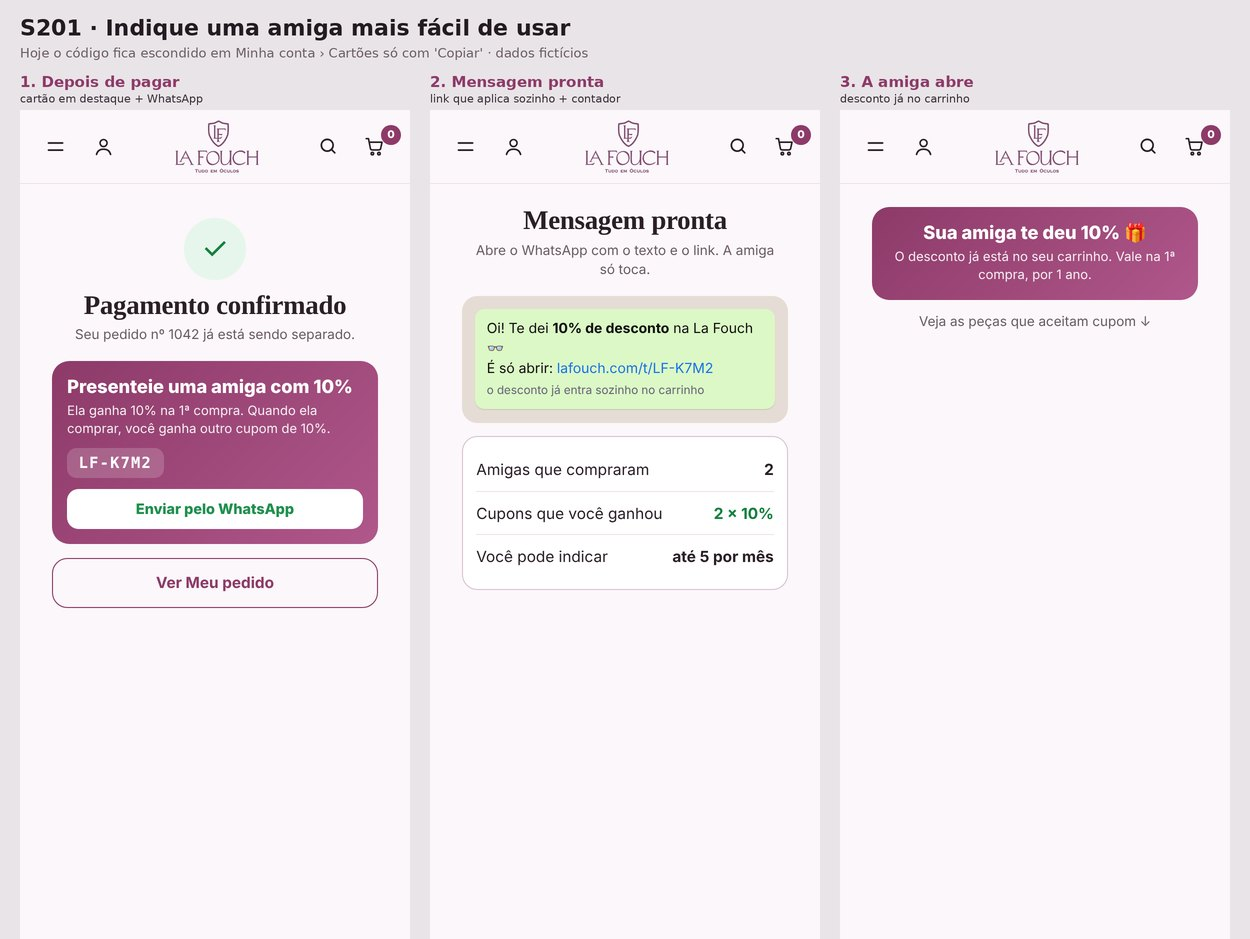
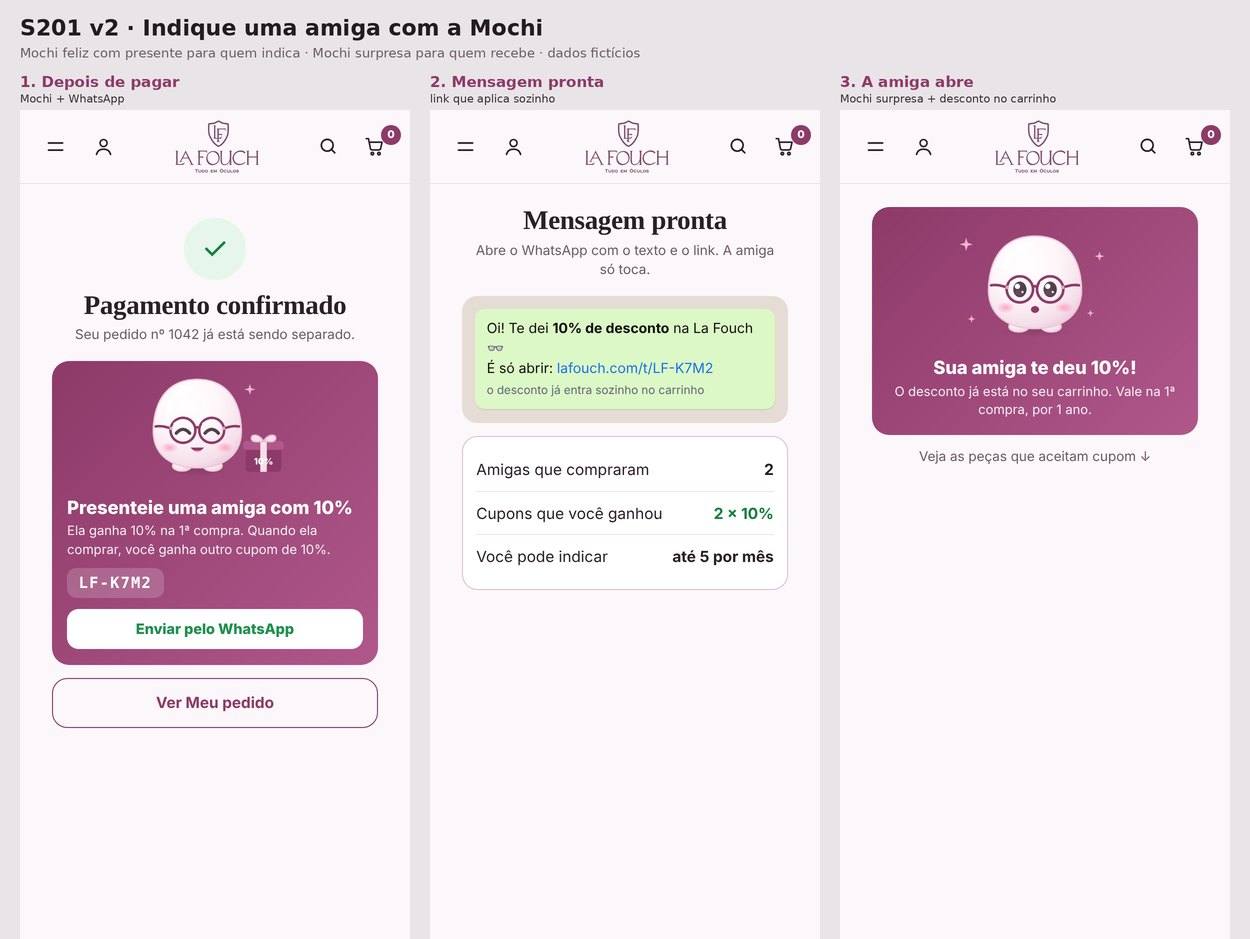
esboço S201 v2 com Mochi feliz e surpresa
Claude-Session: https://claude.ai/code/session_01Vj5GPR2QjandaFr6ascRKC

diff --git a/work/kit/arte/mochi_code.js b/work/kit/arte/mochi_code.js
@@ -1,0 +1,61 @@
+window.__M=(function(){
+/* 09/11 Mochi aprovado (S73–S86): bracinhos em gota que nascem atrás do corpo; nos gestos de rosto o braço passa para a frente
+   inteiro, com união suave só na raiz (S82/S83); no "ajusta os óculos" a troca de camada acontece com o braço parado (S86).
+   Óculos com hastes, brilho da cabeça corrigido, espelho de testa no centro (A), ponteiro de mãozinha com cabo vinho maior (S58 A + S70).
+   Gestos S72/S74 com as animações S83–S85 (ajusta pela haste, tapinha que balança o espelho, limpeza com borrifador e flanela).
+   Cada quadro é desenhado por um "esqueleto" (rig) que só troca atributos — nada de redesenhar o SVG inteiro. */
+const ARMP=L=>`M0 -10 C${L*.45} -11 ${L-2} -8.5 ${L} -1 C${L+1.5} 5 ${L-4} 9 ${L-9} 8.5 C${L*.45} 8 ${L*.2} 10 0 10 Z`;
+const ARMH=L=>`M${L*.35} -5 Q${L*.62} -6.5 ${L*.8} -3.5`,ARMHF=L=>`M${L*.42} -5 Q${L*.66} -6.5 ${L*.84} -3.5`;
+const armT=(lado,ang)=>{const sx=lado<0?22:98,rot=lado<0?180-ang:ang;return `translate(${sx} 92) rotate(${rot.toFixed(2)})${lado<0?' scale(1 -1)':''}`};
+const dentro=(lado,ang,L)=>{const sx=lado<0?22:98,r=(lado<0?180-ang:ang)*Math.PI/180,x=sx+Math.cos(r)*(L-4),y=92+Math.sin(r)*(L-4);return Math.hypot((x-60)/46,(y-80)/44)};
+const tipXY=(lado,ang,L)=>{const sx=lado<0?22:98,r=(lado<0?180-ang:ang)*Math.PI/180;return [sx+Math.cos(r)*(L-5),92+Math.sin(r)*(L-5)]};
+const E=t=>t<.5?4*t*t*t:1-Math.pow(-2*t+2,3)/2,EO=t=>1-Math.pow(1-t,3),cl=(x,a,b)=>Math.min(b,Math.max(a,x)),win=(t,a,b,f)=>cl(Math.min((t-a)/f,(b-t)/f),0,1);
+function tr(k,t){let i=0;while(i<k.length-2&&k[i+1][0]<=t)i++;const a=k[i],b=k[i+1];const u=cl((t-a[0])/(b[0]-a[0]||1),0,1);return a[1]+(b[1]-a[1])*E(u)}
+const rnd=k=>{const x=Math.sin(k*127.1+3.7)*43758.5453;return x-Math.floor(x)};
+const ARM=(c,front)=>front?`<g class="${c}"><g class="t"><path class="s" transform="translate(2 3)" fill="#c98aab" opacity=".2" filter="url(#lfmsb)"/><path class="p" fill="url(#lfmh)" stroke="#e3b3cc" stroke-width="1.7"/><path class="h" fill="none" stroke="#fff" stroke-width="2.4" stroke-linecap="round" opacity=".85"/></g><g clip-path="url(#lfmcc)"><rect x="-60" y="-40" width="260" height="220" fill="url(#lfmbU)" mask="url(#lfmk${c.slice(-1)})"/></g></g>`
+ :`<g class="${c}"><path class="p" fill="url(#lfmh)" stroke="#e8c3d6" stroke-width="1.6"/><path class="h" fill="none" stroke="#fff" stroke-width="2.4" stroke-linecap="round" opacity=".8"/></g>`;
+const MK=l=>`<linearGradient id="lfmg${l}" gradientUnits="userSpaceOnUse" x1="0" y1="0" x2="8" y2="0"><stop offset="0" stop-color="#fff"/><stop offset=".35" stop-color="#fff"/><stop offset="1" stop-color="#000"/></linearGradient><mask id="lfmk${l}" maskUnits="userSpaceOnUse" x="-60" y="-40" width="260" height="220"><g class="mk${l}"><path transform="translate(-1 0) scale(1 1.08)" fill="url(#lfmg${l})"/></g></mask>`;
+const LUVA='<rect x="-6" y="-9" width="7" height="18" rx="2.5" fill="#8d3a69"/><rect x="0" y="-8" width="17" height="16" rx="6" fill="#fff" stroke="#8d3a69" stroke-width="1.8"/><rect class="dedo" x="12" y="-7.5" width="20" height="6.5" rx="3.2" fill="#fff" stroke="#8d3a69" stroke-width="1.8"/><ellipse cx="7" cy="-8.5" rx="4.5" ry="3" fill="#fff" stroke="#8d3a69" stroke-width="1.6"/>';
+const HASTES='<path d="M32 81 C26 79 21 78 16.5 79" fill="none" stroke="#8d3a69" stroke-width="2.6" stroke-linecap="round"/><path d="M88 81 C94 79 99 78 103.5 79" fill="none" stroke="#8d3a69" stroke-width="2.6" stroke-linecap="round"/><circle cx="32.5" cy="81" r="1.8" fill="#e7a6c7"/><circle cx="87.5" cy="81" r="1.8" fill="#e7a6c7"/>';
+var MOCHI_SVG=`<svg viewBox="-6 24 132 110" width="100%" height="100%" fill="none" style="overflow:visible"><defs>
+<radialGradient id="lfmb" cx="38%" cy="28%" r="80%"><stop offset="0" stop-color="#ffffff"/><stop offset=".45" stop-color="#fff7fa"/><stop offset=".85" stop-color="#f6dfea"/><stop offset="1" stop-color="#ecc9da"/></radialGradient>
+<radialGradient id="lfmbU" gradientUnits="userSpaceOnUse" cx="49" cy="55.8" r="73.6"><stop offset="0" stop-color="#ffffff"/><stop offset=".45" stop-color="#fff7fa"/><stop offset=".85" stop-color="#f6dfea"/><stop offset="1" stop-color="#ecc9da"/></radialGradient>
+<radialGradient id="lfmh" cx="35%" cy="30%" r="75%"><stop offset="0" stop-color="#ffffff"/><stop offset="1" stop-color="#f3d6e4"/></radialGradient>
+<radialGradient id="lfmsh" cx="50%" cy="50%" r="50%"><stop offset="0" stop-color="#5a2a46" stop-opacity=".22"/><stop offset="1" stop-color="#5a2a46" stop-opacity="0"/></radialGradient>
+<radialGradient id="lfmir" cx="35%" cy="30%" r="80%"><stop offset="0" stop-color="#ffffff"/><stop offset=".5" stop-color="#e4ecf6"/><stop offset="1" stop-color="#b9c8da"/></radialGradient>
+<linearGradient id="lfmlz" x1="0" y1="0" x2="1" y2="1"><stop offset="0" stop-color="#fff" stop-opacity=".22"/><stop offset="1" stop-color="#e8f0fa" stop-opacity=".04"/></linearGradient>
+<radialGradient id="lfmbl" cx="50%" cy="50%" r="50%"><stop offset="0" stop-color="#ff8fb8" stop-opacity=".75"/><stop offset="1" stop-color="#ff8fb8" stop-opacity="0"/></radialGradient>
+<radialGradient id="lfmnv"><stop offset="0" stop-color="#eecfe0" stop-opacity=".95"/><stop offset=".6" stop-color="#f4dde9" stop-opacity=".6"/><stop offset="1" stop-color="#fff" stop-opacity="0"/></radialGradient>
+<clipPath id="lfmcc"><path d="M60 30 C95 30 106 58 106 84 C106 108 88 122 60 122 C32 122 14 108 14 84 C14 58 25 30 60 30Z"/></clipPath>
+<clipPath id="lfmzE"><circle cx="45" cy="83" r="12"/></clipPath><clipPath id="lfmzD"><circle cx="75" cy="83" r="12"/></clipPath>
+<filter id="lfmsb" x="-50%" y="-50%" width="200%" height="200%"><feGaussianBlur stdDeviation="1.6"/></filter>
+<filter id="lfmnb" x="-50%" y="-50%" width="200%" height="200%"><feGaussianBlur stdDeviation="1.3"/></filter>
+${MK('e')}${MK('d')}
+</defs>
+<ellipse class="sombra" cx="60" cy="125" rx="34" ry="5.5" fill="url(#lfmsh)"/>
+<g class="sq"><g class="tilt"><g class="pulo"><g class="resp">
+ <g class="itB"></g>
+ ${ARM('aBe')}${ARM('aBd')}
+ <g class="pe1"><ellipse cx="44" cy="120" rx="10" ry="5.5" fill="url(#lfmh)" stroke="#ecc9da" stroke-width="1.2"/></g><g class="pe2"><ellipse cx="76" cy="120" rx="10" ry="5.5" fill="url(#lfmh)" stroke="#ecc9da" stroke-width="1.2"/></g>
+ <path d="M60 30 C95 30 106 58 106 84 C106 108 88 122 60 122 C32 122 14 108 14 84 C14 58 25 30 60 30Z" fill="url(#lfmb)" stroke="#ecc9da" stroke-width="1.4"/>
+ <path d="M30 62 C32 50 41 42 54 39" fill="none" stroke="#fff" stroke-width="6" stroke-linecap="round" opacity=".85"/>
+ 
+ <g class="esp" style="transform-origin:60px 58px"><g class="espT"><circle cx="60" cy="47" r="12" fill="url(#lfmir)" stroke="#8d3a69" stroke-width="3"/><circle cx="60" cy="47" r="3.2" fill="#8d3a69"/><path d="M53.5 42 q3 -3 7 -3.5" fill="none" stroke="#fff" stroke-width="2.4" stroke-linecap="round"/></g></g>
+ <g class="olhos"><g class="pis"><g class="pup">
+  <ellipse cx="45" cy="83" rx="6.6" ry="7.8" fill="#3a2632"/><ellipse cx="45" cy="86.5" rx="4.6" ry="3" fill="#6b3b58" opacity=".55"/><circle cx="42.6" cy="80" r="2.6" fill="#fff"/><circle cx="47.6" cy="85.6" r="1.1" fill="#fff"/>
+  <ellipse cx="75" cy="83" rx="6.6" ry="7.8" fill="#3a2632"/><ellipse cx="75" cy="86.5" rx="4.6" ry="3" fill="#6b3b58" opacity=".55"/><circle cx="72.6" cy="80" r="2.6" fill="#fff"/><circle cx="77.6" cy="85.6" r="1.1" fill="#fff"/>
+ </g></g></g>
+ <g class="olhosF" opacity="0"><path d="M38 86 q7 -8 14 0 M68 86 q7 -8 14 0" stroke="#3a2632" stroke-width="3.4" fill="none" stroke-linecap="round"/></g>
+ <g class="olhosZ" opacity="0"><path d="M38 84 q7 6 14 0 M68 84 q7 6 14 0" stroke="#3a2632" stroke-width="3.2" fill="none" stroke-linecap="round"/></g>
+ <g class="ocl"><g class="oclT"><g fill="url(#lfmlz)" stroke="#8d3a69" stroke-width="2.6"><circle cx="45" cy="83" r="13"/><circle cx="75" cy="83" r="13"/></g><path d="M58 81 q2 -2.5 4 0" stroke="#8d3a69" stroke-width="2.6" fill="none"/>
+ <path d="M36 76 l4 -2.5 M66 76 l4 -2.5" stroke="#fff" stroke-width="2" stroke-linecap="round"/><g class="fog"></g>${HASTES}</g></g>
+ <ellipse cx="31" cy="101" rx="9" ry="5.5" fill="url(#lfmbl)"/><ellipse cx="89" cy="101" rx="9" ry="5.5" fill="url(#lfmbl)"/>
+ <g class="bW"><path d="M54.5 101.5 q2.75 3 5.5 0 q2.75 3 5.5 0" stroke="#8d3a69" stroke-width="2.6" fill="none" stroke-linecap="round"/></g>
+ <g class="bO" opacity="0"><ellipse cx="60" cy="103" rx="4" ry="3.4" fill="#8d3a69"/></g>
+ <g class="bF" opacity="0"><path d="M53 101 q7 8 14 0 Z" fill="#8d3a69"/><path d="M56 104 q4 3 8 0" fill="#ff8fb8"/></g>
+ <g class="bH" opacity="0"><path d="M55 103 q3 -1.6 6 -.4 q2.6 1 4.4 -.6" stroke="#8d3a69" stroke-width="2.4" fill="none" stroke-linecap="round"/></g>
+ <g class="bY" opacity="0"><ellipse cx="60" cy="104" rx="5" ry="6.2" fill="#8d3a69"/><ellipse cx="60" cy="107" rx="3" ry="2" fill="#ff8fb8"/></g>
+ ${ARM('aFe',1)}${ARM('aFd',1)}
+ <g class="pon" opacity="0"><g class="ponT"><circle class="mao" cx="25" cy="0" r="6" opacity="0"/><rect x="23" y="-3.2" width="14.7" height="6.4" rx="3" fill="#8d3a69"/><path class="haste" d="M36.7 0 H71" stroke="#8d3a69" stroke-width="3" stroke-linecap="round"/><g class="luva" transform="translate(71 0) scale(.75)">${LUVA}</g></g></g>
+ <g class="itF"></g>
+</g></g></g></g></svg>`;;return MOCHI_SVG})();

diff --git a/docs/MEMORIA-PROJETO.md b/docs/MEMORIA-PROJETO.md
@@ -1909,3 +1909,4 @@ Decisões do dono sobre a tela Venda confirmada (esboço "venda_confirmada_compr
 - 12/11 15:52 DONO: APROVADO (factura/comprovante): site = toda venda com factura electrónica (estrangeiro ou paraguaio sem RUC: Sin nombre/RUC X; paraguaio com RUC: nome+RUC, RUC opcional no cadastro com dígito verificador); loja app = nota ligada → comprovante com dados da nota + imprimir; nota desligada → sem comprovante e sem imprimir. Aguarda IMPLEMENTAR (factura electrónica do dono ainda em preparo).
 - 12/11 16:05 ESBOÇOS: S200 lucro real por peça (work/s190/s200_lucro.jpg): tela da peça com a conta (preço, −IVA venda, −custo US$×câmbio, −IVA compra, −frete compra, −taxa = lucro real; simulação com cupom/Leve 2/delivery) + Finanças 'Lucro real do mês' com detalhamento e peças de mais/menos lucro. S201 Indique uma amiga (work/s190/s201_amiga.jpg): hoje o código fica só em Minha conta › Cartões com 'Copiar'; proposta: cartão em destaque na tela de pagamento confirmado com 'Enviar pelo WhatsApp', mensagem pronta com link lafouch.com/t/CÓDIGO que aplica sozinho, contador de amigas/cupons ganhos, faixa 'Sua amiga te deu 10%' para a amiga. Enviado ao dono o comando do Cloud Shell (rules + funções cupom, analise, volta, voltaAvisa, login, limpeza). Aguardando.
 - 12/11 15:57 DONO: APROVADO S200 (lucro real). S201: reaproveitar a Mochi dos descontos (uma que represente indicar amiga) + rosto de surpresa/alegria ao receber o cupom. Perguntou: Leve 2 com 2 leituras diferentes? Como o cliente sabe que a 2ª peça tem desconto?
+- 12/11 16:20 ESBOÇO S201 v2 (work/s190/s201_amiga.jpg): Mochi FELIZ com presente '10%' no cartão de indicar (tela de pagamento confirmado) + Mochi SURPRESA (olhos abertos, boca 'o', brilhos) na faixa da amiga 'Sua amiga te deu 10%!'. Mochi desenhada com o próprio desenho do site (sem espelho de testa e sem faixa); arquivos em work/kit/arte/. Aguardando aprovação. Leve 2: vale para 2 leituras diferentes (ou leitura + sol); hoje o cliente só vê no resumo do carrinho (proposta: linha na peça, aviso ao adicionar a 1ª, linha '2ª peça −30%' no item).
